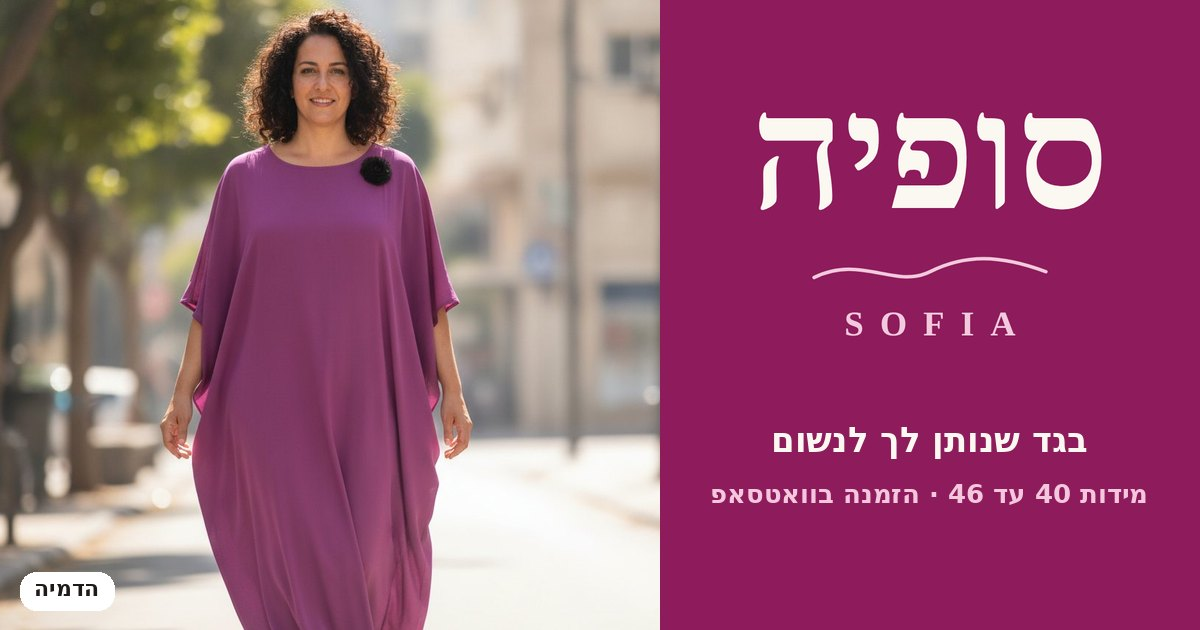
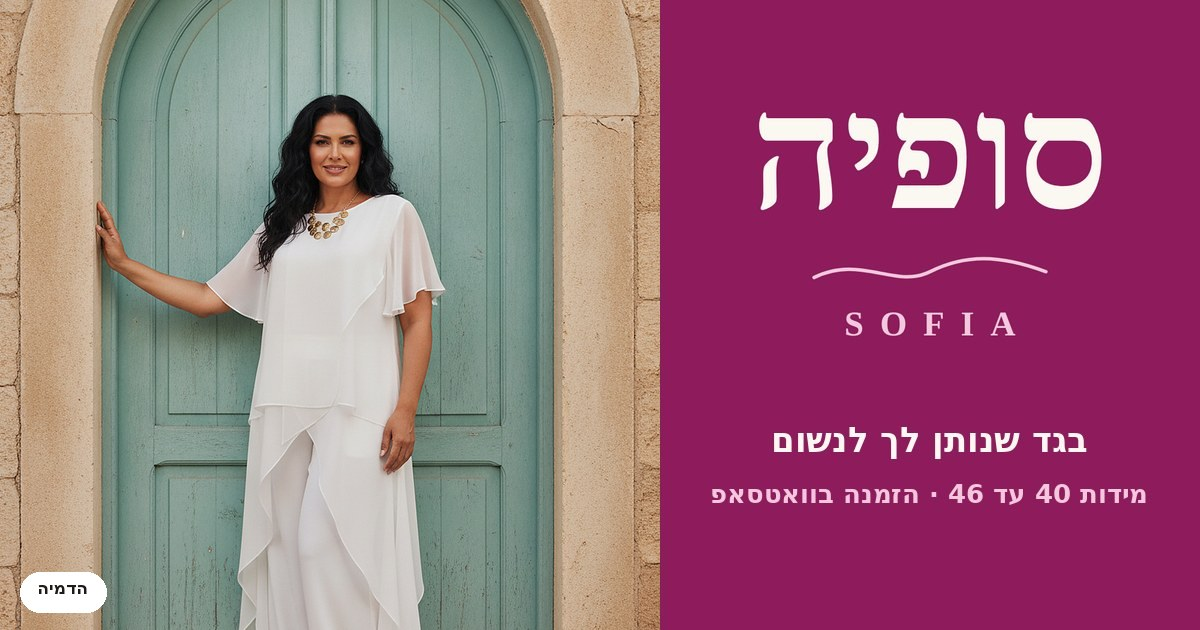
Hero: white set model + show only products with model photos + remove kaftan models

diff --git a/index.html b/index.html
@@ -19,7 +19,7 @@
 <meta property="og:image" content="https://sofiafashion.github.io/images/og.jpg">
 <meta property="og:image:width" content="1200">
 <meta property="og:image:height" content="630">
-<meta property="og:image:alt" content="סופיה: דוגמנית בכפטן מקסי סגול (הדמיה) והלוגו של המותג">
+<meta property="og:image:alt" content="סופיה: דוגמנית בסט שכבות לבן (הדמיה) והלוגו של המותג">
 <meta name="twitter:card" content="summary_large_image">
 <link rel="preconnect" href="https://fonts.googleapis.com">
 <link rel="preconnect" href="https://fonts.gstatic.com" crossorigin>
@@ -38,10 +38,12 @@ html{scroll-behavior:smooth}[hidden]{display:none!important}
 .hero-h1{margin:0;font-family:'Frank Ruhl Libre',serif;font-weight:900;font-size:60px;line-height:1.05}
 .hero-lead{margin:0;font-size:20px;line-height:1.65;color:#4A413B;max-width:480px}
 .hero-cta{display:flex;flex-wrap:wrap;gap:12px;margin-top:4px}
-.hero-img{flex:1 1 420px;margin:0;position:relative;display:block}
-.hero-img img{width:100%;height:560px;object-fit:cover;object-position:top;border-radius:280px 280px 20px 20px;display:block;background:#F6F0E4}
+.hero-img{flex:1 1 420px;max-width:520px;margin:0 auto;position:relative;display:block;aspect-ratio:4/5;overflow:hidden;border-radius:280px 280px 20px 20px;background:#F6F0E4}
+.hero-img figure,.hero-img picture{display:block;width:100%;height:100%}
+.hero-img img{width:100%;height:100%;object-fit:cover;object-position:center 30%;display:block}
 .hero-img figcaption{position:absolute;bottom:14px;right:14px;background:rgba(255,255,255,0.9);color:#1F1A17;font-size:13px;font-weight:700;padding:5px 12px;border-radius:14px}
 .grid{display:grid;grid-template-columns:repeat(auto-fill,minmax(250px,1fr));gap:22px}
+.grid.one{grid-template-columns:minmax(0,380px);justify-content:center}
 .card{background:#FFFFFF;border-radius:20px;overflow:hidden;display:flex;flex-direction:column}
 .card-img{width:100%;aspect-ratio:4/5;object-fit:cover;object-position:top;display:block;background:#F6F0E4}
 .th{display:grid;grid-template-columns:repeat(4,minmax(0,1fr));gap:6px;padding:8px 8px 0}
@@ -116,8 +118,7 @@ body.consent-open #cartBtn,body.consent-open .wa-float{bottom:80px!important}
 .hero-txt{display:contents}
 .hero-eyebrow{order:1;font-size:14px}
 .hero-h1{order:2;font-size:44px}
-.hero-img{order:3;flex:none;width:100%}
-.hero-img img{height:auto;aspect-ratio:4/5;border-radius:200px 200px 16px 16px}
+.hero-img{order:3;flex:none;width:100%;max-width:none;border-radius:200px 200px 16px 16px}
 .hero-lead{order:4;font-size:18px}
 .hero-cta{order:5}
 }
@@ -210,10 +211,10 @@ if(getConsent()==='yes') loadAnalytics();
 <a href="#fit" style="border: 2px solid #1F1A17; color: #1F1A17; text-decoration: none; font-size: 18px; font-weight: 700; padding: 13px 30px; border-radius: 30px">יתאים לי?</a>
 </div>
 </div>
-<a class="hero-img" href="#collection" aria-label="לקולקציה">
+<a class="hero-img" href="#collection" data-open="סט שכבות לבן" aria-label="לסט שכבות לבן">
 <figure style="margin: 0; position: relative">
-<img src="images/k03-model-1.jpg" alt="דוגמנית בכפטן מקסי סגול, הדמיה" fetchpriority="high">
-<figcaption>הדמיה · כפטן מקסי סגול · 399 ₪</figcaption>
+<picture><source srcset="images/hero-white-set.webp" type="image/webp"><img src="images/hero-white-set.jpg" alt="דוגמנית בסט שכבות לבן, הדמיה" width="1600" height="2000" fetchpriority="high"></picture>
+<figcaption>הדמיה · סט שכבות לבן · 449 ₪</figcaption>
 </figure>
 </a>
 </div>
@@ -333,7 +334,7 @@ if(getConsent()==='yes') loadAnalytics();
 <div style="max-width: 1200px; margin: 0 auto; padding: 56px 20px; display: flex; flex-direction: column; gap: 26px">
 <div style="display: flex; flex-direction: column; gap: 6px">
 <h2 style="margin: 0; font-family: 'Frank Ruhl Libre', serif; font-weight: 900; font-size: 38px">משלימים את הלוק</h2>
-<span style="font-size: 18px; color: #4A413B">שרשרת אחת, וכפטן פשוט הופך ללוק של ערב.</span>
+<span style="font-size: 18px; color: #4A413B">שרשרת אחת, ובגד פשוט הופך ללוק של ערב.</span>
 </div>
 <div style="display: grid; grid-template-columns: repeat(auto-fit, minmax(200px, 1fr)); gap: 18px">
 <a href="#" style="text-decoration: none; color: #1F1A17; display: flex; flex-direction: column; gap: 10px">
@@ -474,11 +475,11 @@ var bustMax = [94, 98, 104, 110];
 var pelvisMax = [82, 86, 92, 98];
 var seatMax = [102, 106, 112, 118];
 var products = [
-      { name: 'כפטן מקסי סגול', feel: 'נופל מהכתפיים כמו גלימה. הכי קל ללבוש, הכי קשה להוריד.', price: 399, occ: 'day', img: 'images/03.jpg', gallery: [{ src: 'images/k03-model-1.jpg', label: 'הדמיה · ברחוב' }, { src: 'images/03.jpg', label: 'הבגד' }, { src: 'images/k03-model-3.jpg', label: 'הדמיה · באירוע' }, { src: 'images/k03-model-2.jpg', label: 'הדמיה · בבית' }] },
+      { name: 'כפטן מקסי סגול', feel: 'נופל מהכתפיים כמו גלימה. הכי קל ללבוש, הכי קשה להוריד.', price: 399, occ: 'day', img: 'images/03.jpg' },
       { name: 'סט טוניקה אסימטרית ירוק', feel: 'שכבה ארוכה שמאריכה את הגוף, ומכנס רחב שלא לוחץ.', price: 449, occ: 'work', elastic: true, img: 'images/07.jpg' },
       { name: 'סט שכבות אפרסק', feel: 'רך, אוורירי ונשי. מהבוקר במשרד ועד ארוחת ערב.', price: 449, occ: 'work', elastic: true, img: 'images/18.jpg' },
       { name: 'סט אסימטרי טרקוטה', feel: 'צבע חם שמאיר את הפנים, וגזרה שזזה איתך.', price: 449, occ: 'work', elastic: true, img: 'images/30.jpg' },
-      { name: 'סט שכבות לבן', feel: 'קליל ונקי לימי קיץ. נראה טוב עם כל שרשרת.', price: 449, occ: 'day', elastic: true, img: 'images/22.jpg' },
+      { name: 'סט שכבות לבן', feel: 'קליל ונקי לימי קיץ. נראה טוב עם כל שרשרת.', price: 449, occ: 'day', elastic: true, img: 'images/22.jpg', gallery: [{ src: 'images/hero-white-set.jpg', label: 'הדמיה · בסמטה', model: true }, { src: 'images/22.jpg', label: 'הבגד' }] },
       { name: 'סט חולצה מכופתרת ומכנס פליסה', feel: 'אלגנטי למשרד, נוח ליום ארוך של ישיבות.', price: 499, occ: 'work', elastic: true, img: 'images/13.jpg' },
       { name: 'סט שיפון פוקסיה', feel: 'שרוולים שעפים בכל תנועה. צבע שאי אפשר לפספס.', price: 499, occ: 'night', elastic: true, img: 'images/11.jpg' },
       { name: 'שמלת וולנים טורקיז', feel: 'שכבות קלילות וקשירה עדינה במותן. נשית ומלאת חיים.', price: 499, occ: 'night', img: 'images/04.jpg' },
@@ -513,6 +514,13 @@ var fieldDefs = [
       { id: 'seat', label: 'היקף ישבן', unit: 'ס״מ' },
       { id: 'weight', label: 'משקל (לא חובה)', unit: 'ק״ג' }
     ];
+// מוצגים בקולקציה רק בגדים עם לפחות תמונת דוגמנית אחת בגלריה.
+// תמונת דוגמנית = פריט בגלריה עם model: true, או שבשם הקובץ מופיע model (למשל images/n09-model.jpg).
+// בגד בלי תמונה כזו נשאר ברשימה ומוסתר. כשמוסיפים לו תמונת דוגמנית לגלריה, הוא מופיע לבד.
+function isModelImg(g){return g.model===true||/model/i.test(g.src);}
+products.forEach(function(p){p.hasModel=(p.gallery||[]).some(isModelImg);});
+var visible=products.filter(function(p){return p.hasModel;});
+tabDefs=tabDefs.filter(function(d){return d.id==='all'||visible.some(function(p){return p.occ===d.id;});});
 var occNames = { work: 'לעבודה', night: 'לערב ולאירוע', day: 'ליום-יום' };
 var st={tab:'all',gal:{}};var vals={};
 function idx(v,a){for(var i=0;i<a.length;i++)if(v<=a[i])return i;return -1;}
@@ -521,10 +529,10 @@ function esc(s){return String(s).replace(/&/g,'&amp;').replace(/</g,'&lt;').repl
 document.querySelectorAll('.wa-general').forEach(function(a){a.href=wa('היי, ראיתי את האתר של סופיה ואשמח לעזרה בבחירה');a.target='_blank';});
 function sizeLink(){var m='היי, אשמח לעזרה בבחירת מידה. המידות שלי:'+(vals.height?'\nגובה: '+vals.height:'')+(vals.bust?'\nחזה: '+vals.bust:'')+(vals.pelvis?'\nאגן: '+vals.pelvis:'')+(vals.seat?'\nישבן: '+vals.seat:'');document.querySelectorAll('.wa-sizes').forEach(function(a){a.href=wa(m);a.target='_blank';});}
 sizeLink();
-function renderTabs(){var t=document.getElementById('tabs');t.innerHTML='';tabDefs.forEach(function(d){var on=d.id===st.tab;var b=el('<button type="button" style="min-height: 44px; padding: 0 18px; border-radius: 22px; border: 2px solid '+(on?'#1F1A17':'#CFC4B6')+'; background: '+(on?'#1F1A17':'#FFFFFF')+'; color: '+(on?'#FFFFFF':'#1F1A17')+'; font-family: inherit; font-size: 16px; font-weight: 700; cursor: pointer">'+d.label+'</button>');b.onclick=function(){st.tab=d.id;render();};t.appendChild(b);});}
+function renderTabs(){var t=document.getElementById('tabs');t.innerHTML='';t.parentNode.hidden=tabDefs.length<=2;if(t.parentNode.hidden)return;tabDefs.forEach(function(d){var on=d.id===st.tab;var b=el('<button type="button" style="min-height: 44px; padding: 0 18px; border-radius: 22px; border: 2px solid '+(on?'#1F1A17':'#CFC4B6')+'; background: '+(on?'#1F1A17':'#FFFFFF')+'; color: '+(on?'#FFFFFF':'#1F1A17')+'; font-family: inherit; font-size: 16px; font-weight: 700; cursor: pointer">'+d.label+'</button>');b.onclick=function(){st.tab=d.id;render();};t.appendChild(b);});}
 var tag='background: #F2EBE1; font-size: 13px; font-weight: 700; padding: 4px 10px; border-radius: 12px';
-function renderCatalog(){var c=document.getElementById('catalog');c.innerHTML='';var shown=products.filter(function(p){return st.tab==='all'||p.occ===st.tab;});
-document.getElementById('count').textContent=shown.length+' פריטים · כולם מתאימים ממידה 40 עד 46';
+function renderCatalog(){var c=document.getElementById('catalog');c.innerHTML='';var shown=visible.filter(function(p){return st.tab==='all'||p.occ===st.tab;});c.classList.toggle('one',shown.length===1);
+document.getElementById('count').textContent=(shown.length===1?'פריט אחד · מתאים':shown.length+' פריטים · כולם מתאימים')+' ממידה 40 עד 46';
 shown.forEach(function(p){var g=p.gallery||[];var gi=st.gal[p.name]||0;var img=g.length?g[gi].src:p.img;
 var h='<article class="card"><button type="button" class="card-open" aria-label="'+esc('פרטים: '+p.name)+'"><img class="card-img" src="'+img+'" alt="'+esc(p.name)+'" loading="lazy"></button>';
 if(g.length){h+='<div class="th"></div><span class="th-label">'+g[gi].label+'</span>';}
@@ -573,6 +581,7 @@ document.getElementById('qvClose').onclick=closeQV;
 document.getElementById('qvOverlay').onclick=closeQV;
 document.addEventListener('keydown',function(e){if(e.key==='Escape'&&!document.getElementById('qv').hidden)closeQV();});
 document.getElementById('qvAdd').addEventListener('click',function(){setTimeout(closeQV,0);});
+document.querySelectorAll('[data-open]').forEach(function(a){a.onclick=function(e){var p=visible.filter(function(x){return x.name===a.dataset.open;})[0];if(p){e.preventDefault();openQV(p,a);}};});
 renderFields();render();
 
 (function(){
